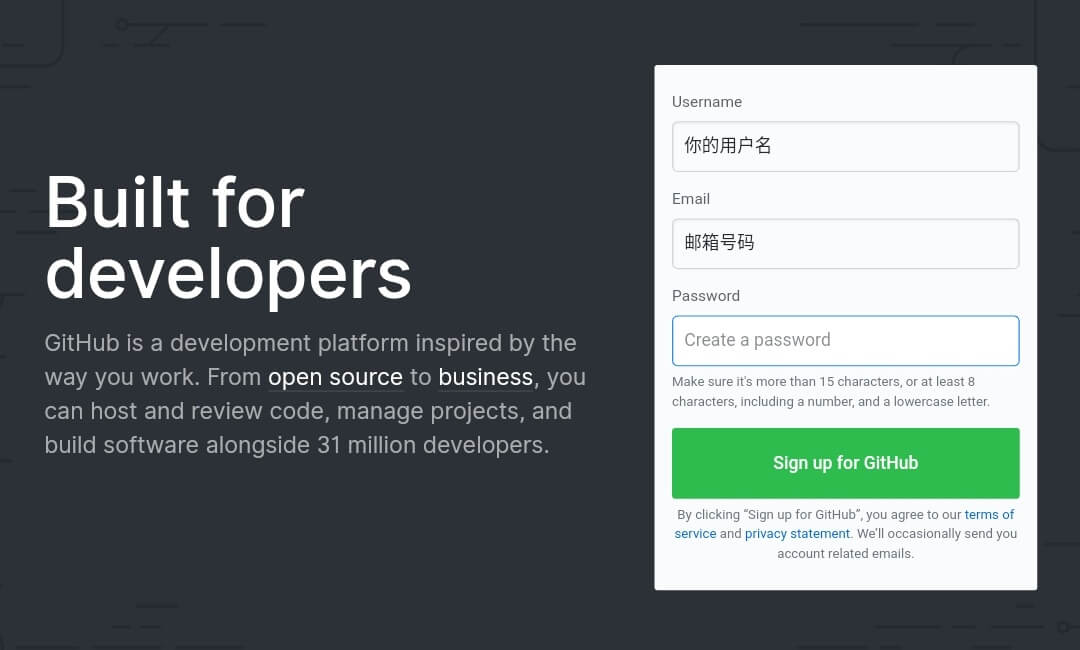
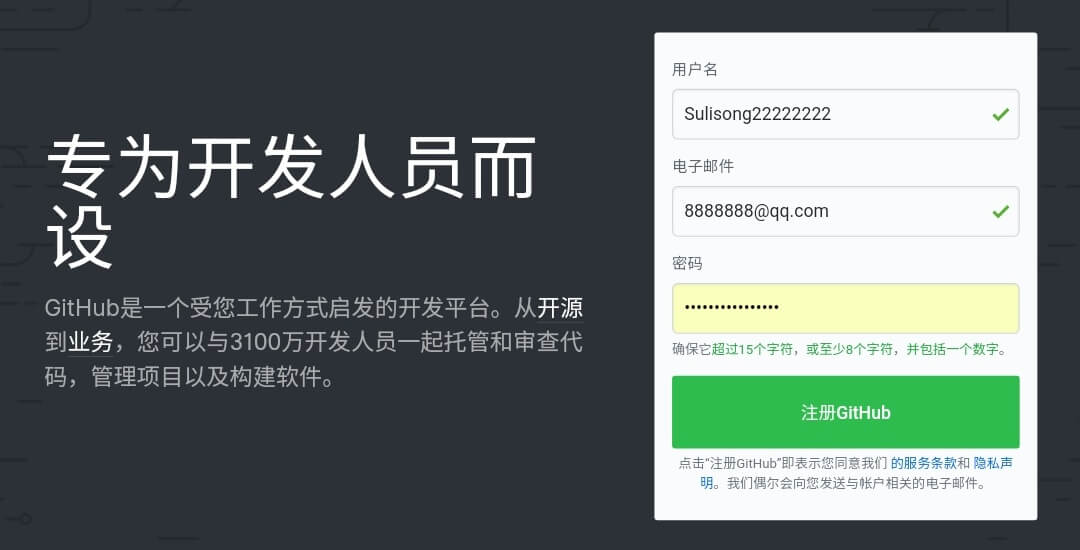
Site updated: 2018-12-03 00:01:30

diff --git a/myposts/su5/index.html b/myposts/su5/index.html
@@ -16,7 +16,11 @@
 <meta property="og:description" content="下面详细说说本教程需必备/所需条件！！！    必备条件 详情      手机系统 Android系统    Github帐号 没有的可以去注册一个    Termux 终端模拟器">
 <meta property="og:locale" content="zh-CN">
 <meta property="og:image" content="http://yoursite.com/gallery/su5/1.jpg">
-<meta property="og:updated_time" content="2018-12-02T14:35:13.874Z">
+<meta property="og:image" content="http://yoursite.com/gallery/su5/2.jpg">
+<meta property="og:image" content="http://yoursite.com/gallery/su5/3.jpg">
+<meta property="og:image" content="http://yoursite.com/gallery/su5/4.jpg">
+<meta property="og:image" content="http://yoursite.com/gallery/su5/5.jpg">
+<meta property="og:updated_time" content="2018-12-02T16:01:09.017Z">
 <meta name="twitter:card" content="summary">
 <meta name="twitter:title" content="零基础Hexo+Github建站">
 <meta name="twitter:description" content="下面详细说说本教程需必备/所需条件！！！    必备条件 详情      手机系统 Android系统    Github帐号 没有的可以去注册一个    Termux 终端模拟器">
@@ -131,7 +135,7 @@
         
         <div class="level article-meta is-size-7 is-uppercase is-mobile is-overflow-x-auto">
             <div class="level-left">
-                <time class="level-item has-text-grey" datetime="2018-12-02T14:35:13.914Z">2018-12-02</time>
+                <time class="level-item has-text-grey" datetime="2018-12-02T16:01:09.057Z">2018-12-02</time>
                 
                 <div class="level-item">
                 <a class="has-link-grey -link" href="/categories/Liunx/">Liunx</a>
@@ -141,7 +145,7 @@
                 <span class="level-item has-text-grey">
                     
                     
-                    几秒 读完 (大约 108 个字)
+                    2 分钟 读完 (大约 301 个字)
                 </span>
                 
             </div>
@@ -177,7 +181,7 @@
 </tbody>
 </table>
  <a id="more"></a>
-<p> <strong> 1、注册github帐号 </strong><br> 1.点击跳转<a href="https://github.com" target="_blank" rel="noopener">github官网</a>,推荐用电脑版网页打开<br> 2.按提示注册帐号(第一项用户名、第二项邮箱、第三项帐号密码)<br> <img src="/gallery/su5/1.jpg" alt=""></p>
+<p> <strong> 1、注册github帐号 </strong><br> 1.点击跳转<a href="https://github.com" target="_blank" rel="noopener">github官网</a>,推荐用电脑版网页打开(推荐使用：chrome浏览器，自带网页翻译)<br> 2.按提示注册帐号(第一项用户名、第二项邮箱、第三项帐号密码)，原网页界面是英文，考虑到大多数人看不懂，所以我使用了翻译后的网页截图<br> <img src="/gallery/su5/1.jpg" alt=""><br> 填写所有信息点击“Sign up for GitHub”进入注册向导！如果填写用户名没有被占用且邮箱没有注册过，会显示以下界面<br> <img src="/gallery/su5/2.jpg" alt=""><br> 如果报错！按提示重写新的用户名/邮箱，知道无错误！<br> 点击“创建一个帐户”进入下一步，显示如下：<br> <img src="/gallery/su5/3.jpg" alt=""><br> 点击“继续”进入下一步，显示如下：<br> <img src="/gallery/su5/4.jpg" alt=""><br> 点击“跳过此步骤”完成注册！显示如下：<br> <img src="/gallery/su5/5.jpg" alt=""></p>
 
         </div>
         
@@ -434,7 +438,7 @@
             
             <div class="media-content">
                 <div class="content">
-                    <div><time class="has-text-grey is-size-7 is-uppercase" datetime="2018-12-02T14:35:13.914Z">2018-12-02</time></div>
+                    <div><time class="has-text-grey is-size-7 is-uppercase" datetime="2018-12-02T16:01:09.057Z">2018-12-02</time></div>
                     <a href="/myposts/su5/" class="has-link-black-ter is-size-6">零基础Hexo+Github建站</a>
                     <p class="is-size-7 is-uppercase">
                         <a class="has-link-grey -link" href="/categories/Liunx/">Liunx</a>
@@ -632,7 +636,7 @@
             
             <div class="media-content">
                 <div class="content">
-                    <div><time class="has-text-grey is-size-7 is-uppercase" datetime="2018-12-02T14:35:13.914Z">2018-12-02</time></div>
+                    <div><time class="has-text-grey is-size-7 is-uppercase" datetime="2018-12-02T16:01:09.057Z">2018-12-02</time></div>
                     <a href="/myposts/su5/" class="has-link-black-ter is-size-6">零基础Hexo+Github建站</a>
                     <p class="is-size-7 is-uppercase">
                         <a class="has-link-grey -link" href="/categories/Liunx/">Liunx</a>

diff --git a/categories/Liunx/index.html b/categories/Liunx/index.html
@@ -139,7 +139,7 @@
         
         <div class="level article-meta is-size-7 is-uppercase is-mobile is-overflow-x-auto">
             <div class="level-left">
-                <time class="level-item has-text-grey" datetime="2018-12-02T14:35:13.914Z">2018-12-02</time>
+                <time class="level-item has-text-grey" datetime="2018-12-02T16:01:09.057Z">2018-12-02</time>
                 
                 <div class="level-item">
                 <a class="has-link-grey -link" href="/categories/Liunx/">Liunx</a>
@@ -149,7 +149,7 @@
                 <span class="level-item has-text-grey">
                     
                     
-                    几秒 读完 (大约 108 个字)
+                    2 分钟 读完 (大约 301 个字)
                 </span>
                 
             </div>
@@ -401,7 +401,7 @@
             
             <div class="media-content">
                 <div class="content">
-                    <div><time class="has-text-grey is-size-7 is-uppercase" datetime="2018-12-02T14:35:13.914Z">2018-12-02</time></div>
+                    <div><time class="has-text-grey is-size-7 is-uppercase" datetime="2018-12-02T16:01:09.057Z">2018-12-02</time></div>
                     <a href="/myposts/su5/" class="has-link-black-ter is-size-6">零基础Hexo+Github建站</a>
                     <p class="is-size-7 is-uppercase">
                         <a class="has-link-grey -link" href="/categories/Liunx/">Liunx</a>
@@ -599,7 +599,7 @@
             
             <div class="media-content">
                 <div class="content">
-                    <div><time class="has-text-grey is-size-7 is-uppercase" datetime="2018-12-02T14:35:13.914Z">2018-12-02</time></div>
+                    <div><time class="has-text-grey is-size-7 is-uppercase" datetime="2018-12-02T16:01:09.057Z">2018-12-02</time></div>
                     <a href="/myposts/su5/" class="has-link-black-ter is-size-6">零基础Hexo+Github建站</a>
                     <p class="is-size-7 is-uppercase">
                         <a class="has-link-grey -link" href="/categories/Liunx/">Liunx</a>

diff --git a/index.html b/index.html
@@ -128,7 +128,7 @@
         
         <div class="level article-meta is-size-7 is-uppercase is-mobile is-overflow-x-auto">
             <div class="level-left">
-                <time class="level-item has-text-grey" datetime="2018-12-02T14:35:13.914Z">2018-12-02</time>
+                <time class="level-item has-text-grey" datetime="2018-12-02T16:01:09.057Z">2018-12-02</time>
                 
                 <div class="level-item">
                 <a class="has-link-grey -link" href="/categories/Liunx/">Liunx</a>
@@ -138,7 +138,7 @@
                 <span class="level-item has-text-grey">
                     
                     
-                    几秒 读完 (大约 108 个字)
+                    2 分钟 读完 (大约 301 个字)
                 </span>
                 
             </div>
@@ -673,7 +673,7 @@
             
             <div class="media-content">
                 <div class="content">
-                    <div><time class="has-text-grey is-size-7 is-uppercase" datetime="2018-12-02T14:35:13.914Z">2018-12-02</time></div>
+                    <div><time class="has-text-grey is-size-7 is-uppercase" datetime="2018-12-02T16:01:09.057Z">2018-12-02</time></div>
                     <a href="/myposts/su5/" class="has-link-black-ter is-size-6">零基础Hexo+Github建站</a>
                     <p class="is-size-7 is-uppercase">
                         <a class="has-link-grey -link" href="/categories/Liunx/">Liunx</a>
@@ -871,7 +871,7 @@
             
             <div class="media-content">
                 <div class="content">
-                    <div><time class="has-text-grey is-size-7 is-uppercase" datetime="2018-12-02T14:35:13.914Z">2018-12-02</time></div>
+                    <div><time class="has-text-grey is-size-7 is-uppercase" datetime="2018-12-02T16:01:09.057Z">2018-12-02</time></div>
                     <a href="/myposts/su5/" class="has-link-black-ter is-size-6">零基础Hexo+Github建站</a>
                     <p class="is-size-7 is-uppercase">
                         <a class="has-link-grey -link" href="/categories/Liunx/">Liunx</a>

diff --git a/tags/教程/index.html b/tags/教程/index.html
@@ -138,7 +138,7 @@
         
         <div class="level article-meta is-size-7 is-uppercase is-mobile is-overflow-x-auto">
             <div class="level-left">
-                <time class="level-item has-text-grey" datetime="2018-12-02T14:35:13.914Z">2018-12-02</time>
+                <time class="level-item has-text-grey" datetime="2018-12-02T16:01:09.057Z">2018-12-02</time>
                 
                 <div class="level-item">
                 <a class="has-link-grey -link" href="/categories/Liunx/">Liunx</a>
@@ -148,7 +148,7 @@
                 <span class="level-item has-text-grey">
                     
                     
-                    几秒 读完 (大约 108 个字)
+                    2 分钟 读完 (大约 301 个字)
                 </span>
                 
             </div>
@@ -400,7 +400,7 @@
             
             <div class="media-content">
                 <div class="content">
-                    <div><time class="has-text-grey is-size-7 is-uppercase" datetime="2018-12-02T14:35:13.914Z">2018-12-02</time></div>
+                    <div><time class="has-text-grey is-size-7 is-uppercase" datetime="2018-12-02T16:01:09.057Z">2018-12-02</time></div>
                     <a href="/myposts/su5/" class="has-link-black-ter is-size-6">零基础Hexo+Github建站</a>
                     <p class="is-size-7 is-uppercase">
                         <a class="has-link-grey -link" href="/categories/Liunx/">Liunx</a>
@@ -598,7 +598,7 @@
             
             <div class="media-content">
                 <div class="content">
-                    <div><time class="has-text-grey is-size-7 is-uppercase" datetime="2018-12-02T14:35:13.914Z">2018-12-02</time></div>
+                    <div><time class="has-text-grey is-size-7 is-uppercase" datetime="2018-12-02T16:01:09.057Z">2018-12-02</time></div>
                     <a href="/myposts/su5/" class="has-link-black-ter is-size-6">零基础Hexo+Github建站</a>
                     <p class="is-size-7 is-uppercase">
                         <a class="has-link-grey -link" href="/categories/Liunx/">Liunx</a>

diff --git a/archives/2018/12/index.html b/archives/2018/12/index.html
@@ -134,7 +134,7 @@
                 
                 <div class="media-content">
                     <div class="content">
-                        <time class="has-text-grey is-size-7 is-block is-uppercase" datetime="2018-12-02T14:35:13.914Z">2018-12-02</time>
+                        <time class="has-text-grey is-size-7 is-block is-uppercase" datetime="2018-12-02T16:01:09.057Z">2018-12-02</time>
                         <a href="/myposts/su5/" class="has-link-black-ter is-size-6">零基础Hexo+Github建站</a>
                         <div class="level article-meta is-mobile">
                             <div class="level-left">
@@ -448,7 +448,7 @@
             
             <div class="media-content">
                 <div class="content">
-                    <div><time class="has-text-grey is-size-7 is-uppercase" datetime="2018-12-02T14:35:13.914Z">2018-12-02</time></div>
+                    <div><time class="has-text-grey is-size-7 is-uppercase" datetime="2018-12-02T16:01:09.057Z">2018-12-02</time></div>
                     <a href="/myposts/su5/" class="has-link-black-ter is-size-6">零基础Hexo+Github建站</a>
                     <p class="is-size-7 is-uppercase">
                         <a class="has-link-grey -link" href="/categories/Liunx/">Liunx</a>
@@ -646,7 +646,7 @@
             
             <div class="media-content">
                 <div class="content">
-                    <div><time class="has-text-grey is-size-7 is-uppercase" datetime="2018-12-02T14:35:13.914Z">2018-12-02</time></div>
+                    <div><time class="has-text-grey is-size-7 is-uppercase" datetime="2018-12-02T16:01:09.057Z">2018-12-02</time></div>
                     <a href="/myposts/su5/" class="has-link-black-ter is-size-6">零基础Hexo+Github建站</a>
                     <p class="is-size-7 is-uppercase">
                         <a class="has-link-grey -link" href="/categories/Liunx/">Liunx</a>

diff --git a/archives/2018/index.html b/archives/2018/index.html
@@ -134,7 +134,7 @@
                 
                 <div class="media-content">
                     <div class="content">
-                        <time class="has-text-grey is-size-7 is-block is-uppercase" datetime="2018-12-02T14:35:13.914Z">2018-12-02</time>
+                        <time class="has-text-grey is-size-7 is-block is-uppercase" datetime="2018-12-02T16:01:09.057Z">2018-12-02</time>
                         <a href="/myposts/su5/" class="has-link-black-ter is-size-6">零基础Hexo+Github建站</a>
                         <div class="level article-meta is-mobile">
                             <div class="level-left">
@@ -448,7 +448,7 @@
             
             <div class="media-content">
                 <div class="content">
-                    <div><time class="has-text-grey is-size-7 is-uppercase" datetime="2018-12-02T14:35:13.914Z">2018-12-02</time></div>
+                    <div><time class="has-text-grey is-size-7 is-uppercase" datetime="2018-12-02T16:01:09.057Z">2018-12-02</time></div>
                     <a href="/myposts/su5/" class="has-link-black-ter is-size-6">零基础Hexo+Github建站</a>
                     <p class="is-size-7 is-uppercase">
                         <a class="has-link-grey -link" href="/categories/Liunx/">Liunx</a>
@@ -646,7 +646,7 @@
             
             <div class="media-content">
                 <div class="content">
-                    <div><time class="has-text-grey is-size-7 is-uppercase" datetime="2018-12-02T14:35:13.914Z">2018-12-02</time></div>
+                    <div><time class="has-text-grey is-size-7 is-uppercase" datetime="2018-12-02T16:01:09.057Z">2018-12-02</time></div>
                     <a href="/myposts/su5/" class="has-link-black-ter is-size-6">零基础Hexo+Github建站</a>
                     <p class="is-size-7 is-uppercase">
                         <a class="has-link-grey -link" href="/categories/Liunx/">Liunx</a>

diff --git a/archives/index.html b/archives/index.html
@@ -134,7 +134,7 @@
                 
                 <div class="media-content">
                     <div class="content">
-                        <time class="has-text-grey is-size-7 is-block is-uppercase" datetime="2018-12-02T14:35:13.914Z">2018-12-02</time>
+                        <time class="has-text-grey is-size-7 is-block is-uppercase" datetime="2018-12-02T16:01:09.057Z">2018-12-02</time>
                         <a href="/myposts/su5/" class="has-link-black-ter is-size-6">零基础Hexo+Github建站</a>
                         <div class="level article-meta is-mobile">
                             <div class="level-left">
@@ -448,7 +448,7 @@
             
             <div class="media-content">
                 <div class="content">
-                    <div><time class="has-text-grey is-size-7 is-uppercase" datetime="2018-12-02T14:35:13.914Z">2018-12-02</time></div>
+                    <div><time class="has-text-grey is-size-7 is-uppercase" datetime="2018-12-02T16:01:09.057Z">2018-12-02</time></div>
                     <a href="/myposts/su5/" class="has-link-black-ter is-size-6">零基础Hexo+Github建站</a>
                     <p class="is-size-7 is-uppercase">
                         <a class="has-link-grey -link" href="/categories/Liunx/">Liunx</a>
@@ -646,7 +646,7 @@
             
             <div class="media-content">
                 <div class="content">
-                    <div><time class="has-text-grey is-size-7 is-uppercase" datetime="2018-12-02T14:35:13.914Z">2018-12-02</time></div>
+                    <div><time class="has-text-grey is-size-7 is-uppercase" datetime="2018-12-02T16:01:09.057Z">2018-12-02</time></div>
                     <a href="/myposts/su5/" class="has-link-black-ter is-size-6">零基础Hexo+Github建站</a>
                     <p class="is-size-7 is-uppercase">
                         <a class="has-link-grey -link" href="/categories/Liunx/">Liunx</a>

diff --git a/categories/index.html b/categories/index.html
@@ -8,7 +8,7 @@
 
 
     <meta name="description" content="用于分享个人玩机知识，专业搞机">
-<meta name="keywords" content="资源分享,壁纸,教程">
+<meta name="keywords" content="教程,壁纸,资源分享">
 <meta property="og:type" content="website">
 <meta property="og:title" content="博客 By 苏lisong">
 <meta property="og:url" content="http://yoursite.com/categories/index.html">
@@ -358,7 +358,7 @@
             
             <div class="media-content">
                 <div class="content">
-                    <div><time class="has-text-grey is-size-7 is-uppercase" datetime="2018-12-02T14:35:13.914Z">2018-12-02</time></div>
+                    <div><time class="has-text-grey is-size-7 is-uppercase" datetime="2018-12-02T16:01:09.057Z">2018-12-02</time></div>
                     <a href="/myposts/su5/" class="has-link-black-ter is-size-6">零基础Hexo+Github建站</a>
                     <p class="is-size-7 is-uppercase">
                         <a class="has-link-grey -link" href="/categories/Liunx/">Liunx</a>
@@ -556,7 +556,7 @@
             
             <div class="media-content">
                 <div class="content">
-                    <div><time class="has-text-grey is-size-7 is-uppercase" datetime="2018-12-02T14:35:13.914Z">2018-12-02</time></div>
+                    <div><time class="has-text-grey is-size-7 is-uppercase" datetime="2018-12-02T16:01:09.057Z">2018-12-02</time></div>
                     <a href="/myposts/su5/" class="has-link-black-ter is-size-6">零基础Hexo+Github建站</a>
                     <p class="is-size-7 is-uppercase">
                         <a class="has-link-grey -link" href="/categories/Liunx/">Liunx</a>

diff --git a/tags/index.html b/tags/index.html
@@ -8,7 +8,7 @@
 
 
     <meta name="description" content="用于分享个人玩机知识，专业搞机">
-<meta name="keywords" content="资源分享,壁纸,教程">
+<meta name="keywords" content="教程,壁纸,资源分享">
 <meta property="og:type" content="website">
 <meta property="og:title" content="博客 By 苏lisong">
 <meta property="og:url" content="http://yoursite.com/tags/index.html">
@@ -358,7 +358,7 @@
             
             <div class="media-content">
                 <div class="content">
-                    <div><time class="has-text-grey is-size-7 is-uppercase" datetime="2018-12-02T14:35:13.914Z">2018-12-02</time></div>
+                    <div><time class="has-text-grey is-size-7 is-uppercase" datetime="2018-12-02T16:01:09.057Z">2018-12-02</time></div>
                     <a href="/myposts/su5/" class="has-link-black-ter is-size-6">零基础Hexo+Github建站</a>
                     <p class="is-size-7 is-uppercase">
                         <a class="has-link-grey -link" href="/categories/Liunx/">Liunx</a>
@@ -556,7 +556,7 @@
             
             <div class="media-content">
                 <div class="content">
-                    <div><time class="has-text-grey is-size-7 is-uppercase" datetime="2018-12-02T14:35:13.914Z">2018-12-02</time></div>
+                    <div><time class="has-text-grey is-size-7 is-uppercase" datetime="2018-12-02T16:01:09.057Z">2018-12-02</time></div>
                     <a href="/myposts/su5/" class="has-link-black-ter is-size-6">零基础Hexo+Github建站</a>
                     <p class="is-size-7 is-uppercase">
                         <a class="has-link-grey -link" href="/categories/Liunx/">Liunx</a>

diff --git a/categories/壁纸/index.html b/categories/壁纸/index.html
@@ -379,7 +379,7 @@
             
             <div class="media-content">
                 <div class="content">
-                    <div><time class="has-text-grey is-size-7 is-uppercase" datetime="2018-12-02T14:35:13.914Z">2018-12-02</time></div>
+                    <div><time class="has-text-grey is-size-7 is-uppercase" datetime="2018-12-02T16:01:09.057Z">2018-12-02</time></div>
                     <a href="/myposts/su5/" class="has-link-black-ter is-size-6">零基础Hexo+Github建站</a>
                     <p class="is-size-7 is-uppercase">
                         <a class="has-link-grey -link" href="/categories/Liunx/">Liunx</a>
@@ -577,7 +577,7 @@
             
             <div class="media-content">
                 <div class="content">
-                    <div><time class="has-text-grey is-size-7 is-uppercase" datetime="2018-12-02T14:35:13.914Z">2018-12-02</time></div>
+                    <div><time class="has-text-grey is-size-7 is-uppercase" datetime="2018-12-02T16:01:09.057Z">2018-12-02</time></div>
                     <a href="/myposts/su5/" class="has-link-black-ter is-size-6">零基础Hexo+Github建站</a>
                     <p class="is-size-7 is-uppercase">
                         <a class="has-link-grey -link" href="/categories/Liunx/">Liunx</a>

diff --git a/categories/安卓应用/index.html b/categories/安卓应用/index.html
@@ -410,7 +410,7 @@
             
             <div class="media-content">
                 <div class="content">
-                    <div><time class="has-text-grey is-size-7 is-uppercase" datetime="2018-12-02T14:35:13.914Z">2018-12-02</time></div>
+                    <div><time class="has-text-grey is-size-7 is-uppercase" datetime="2018-12-02T16:01:09.057Z">2018-12-02</time></div>
                     <a href="/myposts/su5/" class="has-link-black-ter is-size-6">零基础Hexo+Github建站</a>
                     <p class="is-size-7 is-uppercase">
                         <a class="has-link-grey -link" href="/categories/Liunx/">Liunx</a>
@@ -608,7 +608,7 @@
             
             <div class="media-content">
                 <div class="content">
-                    <div><time class="has-text-grey is-size-7 is-uppercase" datetime="2018-12-02T14:35:13.914Z">2018-12-02</time></div>
+                    <div><time class="has-text-grey is-size-7 is-uppercase" datetime="2018-12-02T16:01:09.057Z">2018-12-02</time></div>
                     <a href="/myposts/su5/" class="has-link-black-ter is-size-6">零基础Hexo+Github建站</a>
                     <p class="is-size-7 is-uppercase">
                         <a class="has-link-grey -link" href="/categories/Liunx/">Liunx</a>

diff --git a/categories/百度输入法皮肤/index.html b/categories/百度输入法皮肤/index.html
@@ -381,7 +381,7 @@
             
             <div class="media-content">
                 <div class="content">
-                    <div><time class="has-text-grey is-size-7 is-uppercase" datetime="2018-12-02T14:35:13.914Z">2018-12-02</time></div>
+                    <div><time class="has-text-grey is-size-7 is-uppercase" datetime="2018-12-02T16:01:09.057Z">2018-12-02</time></div>
                     <a href="/myposts/su5/" class="has-link-black-ter is-size-6">零基础Hexo+Github建站</a>
                     <p class="is-size-7 is-uppercase">
                         <a class="has-link-grey -link" href="/categories/Liunx/">Liunx</a>
@@ -579,7 +579,7 @@
             
             <div class="media-content">
                 <div class="content">
-                    <div><time class="has-text-grey is-size-7 is-uppercase" datetime="2018-12-02T14:35:13.914Z">2018-12-02</time></div>
+                    <div><time class="has-text-grey is-size-7 is-uppercase" datetime="2018-12-02T16:01:09.057Z">2018-12-02</time></div>
                     <a href="/myposts/su5/" class="has-link-black-ter is-size-6">零基础Hexo+Github建站</a>
                     <p class="is-size-7 is-uppercase">
                         <a class="has-link-grey -link" href="/categories/Liunx/">Liunx</a>
